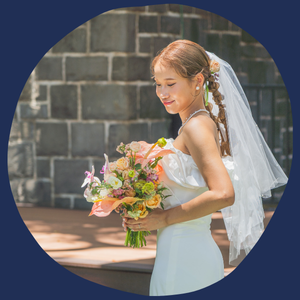
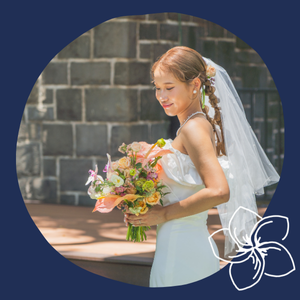
update pic

diff --git a/sources/components/Profile.tsx b/sources/components/Profile.tsx
@@ -8,36 +8,28 @@ export default function Profile() {
 
             <div className="flex flex-col md:flex-row justify-center items-start gap-16">
                 {/* Groom */}
-                <div className="flex-1 flex flex-col items-center md:items-end text-center md:text-right">
-                    <div className="align-center w-100">
-                        <div className="flex justify-center items-center gap-[60px]">
+                <div className="flex-1 flex flex-col items-center md:items-end text-center md:text-right w-full">
+                    <div className="align-center w-full">
+                        <div className="flex justify-center items-center gap-[10px]">
                             {/* 画像 */}
-                            <Image
-                                src="./images/groom.png"
-                                alt="turtle"
-                                width={50}
-                                height={50}
-                                className="my-2"
-                            />
+                             <div className="relative w-full h-40 md:h-60">
+                                <Image
+                                    src="./images/groom.png"
+                                    alt="riku"
+                                    fill
+                                    className="object-contain"
+                                />
+                            </div>
 
-                            <div>
+                            <div className="md:w-[50%] w-full">
                                 {/* 名前 */}
                                 <div className="text-3xl font-thin text-center">Riku</div>
                                 <div className="text-xl mb-4 font-thin text-center">Groom</div>
-
-                                {/* 装飾アイコン */}
-                                <Image
-                                    src="./images/honu.png"
-                                    alt="turtle"
-                                    width={20}
-                                    height={20}
-                                    className="my-2"
-                                />
                             </div>
                         </div>
 
                         {/* プロフィール文 */}
-                        <p className="text-sm leading-relaxed mt-4 text-left mx-auto w-fit">
+                        <p className="text-sm leading-relaxed md:mt-4 mt-6 text-left mx-auto w-fit">
                             1997年10月18日 / 茨城県出身埼玉県育ち
                             <br />
                             hogehogehoge
@@ -51,39 +43,31 @@ export default function Profile() {
                 </div>
 
                 {/* Bride */}
-                <div className="flex-1 flex flex-col items-center md:items-start text-center md:text-left">
-                    <div className="align-center w-100">
-                        <div className="flex justify-center items-center gap-[60px]">
+                <div className="flex-1 flex flex-col items-center md:items-start text-center md:text-left w-full">
+                    <div className="align-center w-full">
+                        <div className="flex justify-center items-center gap-[10px]">
                             {/* 画像 */}
-                            <Image
-                                src="./images/bride.png"
-                                alt="turtle"
-                                width={50}
-                                height={50}
-                                className="my-2"
-                            />
+                            <div className="relative w-full h-40 md:h-60">
+                                <Image
+                                    src="./images/bride.png"
+                                    alt="miku"
+                                    fill
+                                    className="object-contain"
+                                />
+                            </div>
 
-                            <div>
+                            <div className="md:w-[50%] w-full">
                                 {/* 名前 */}
                                 <div className="text-3xl font-thin text-center">Miku</div>
                                 <div className="text-xl mb-4 font-thin text-center">Bride</div>
-
-                                {/* 装飾アイコン */}
-                                <Image
-                                    src="./images/honu.png"
-                                    alt="turtle"
-                                    width={20}
-                                    height={20}
-                                    className="my-2"
-                                />
                             </div>
                         </div>
 
                         {/* プロフィール文 */}
-                        <p className="text-sm leading-relaxed mt-4 mx-auto w-fit">
+                        <p className="text-sm leading-relaxed md:mt-4 mt-6 mx-auto w-fit">
                             1999年4月19日 / 兵庫県出身
                             <br />
-                            旅行・コーヒーが好きです                    
+                            旅行・コーヒーが好きです
                             <br />
                             最近は半年に1回ほどハワイに訪れては、美味しい豆を探しています。
                             <br />
